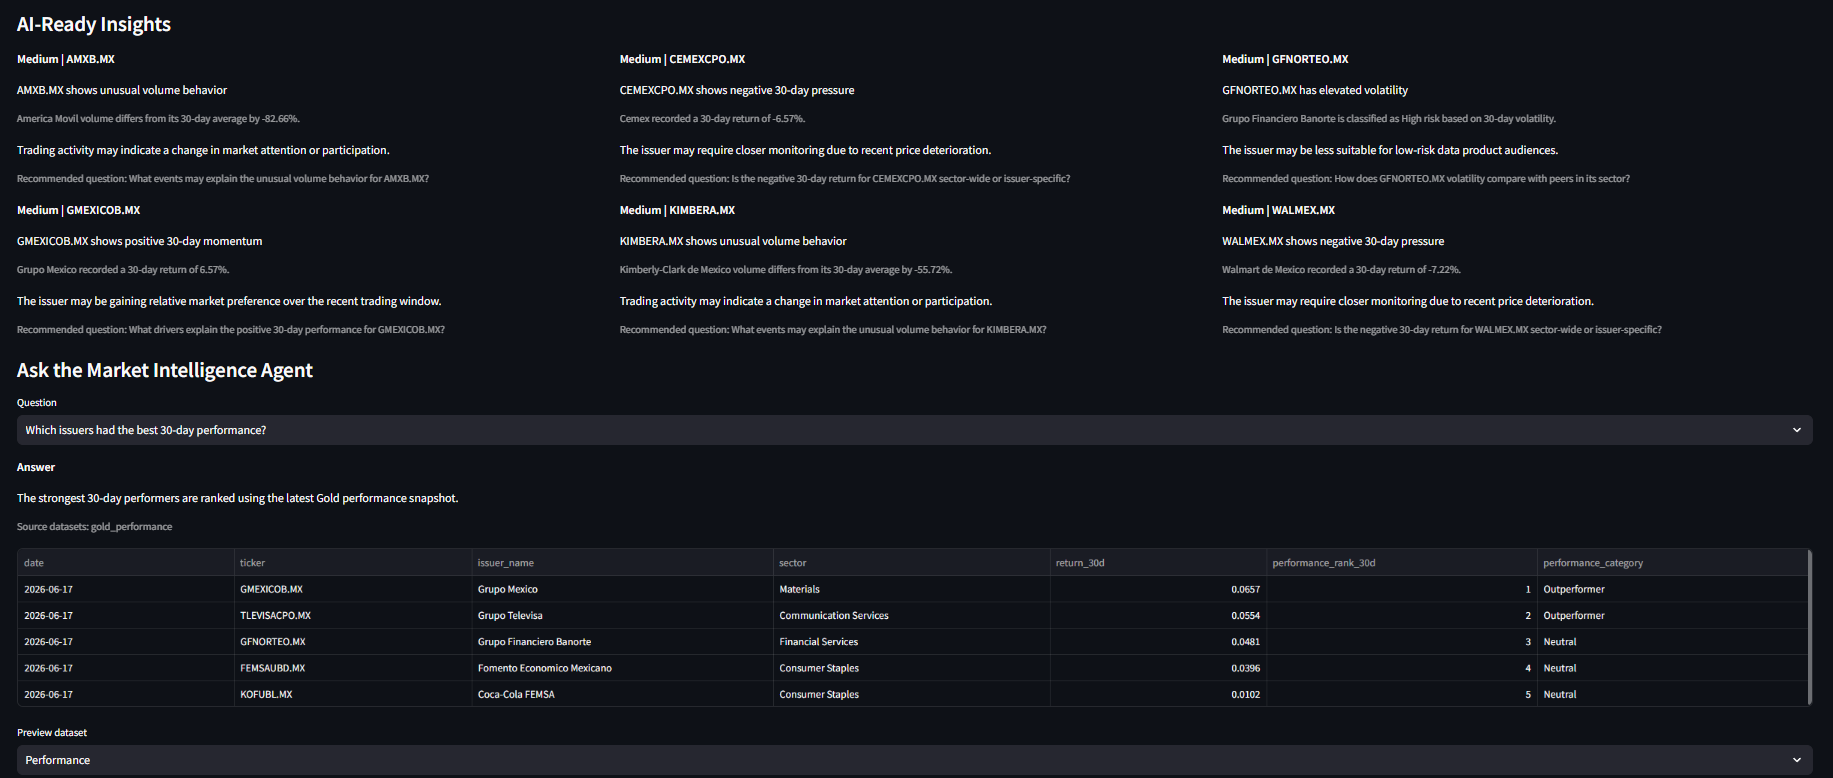
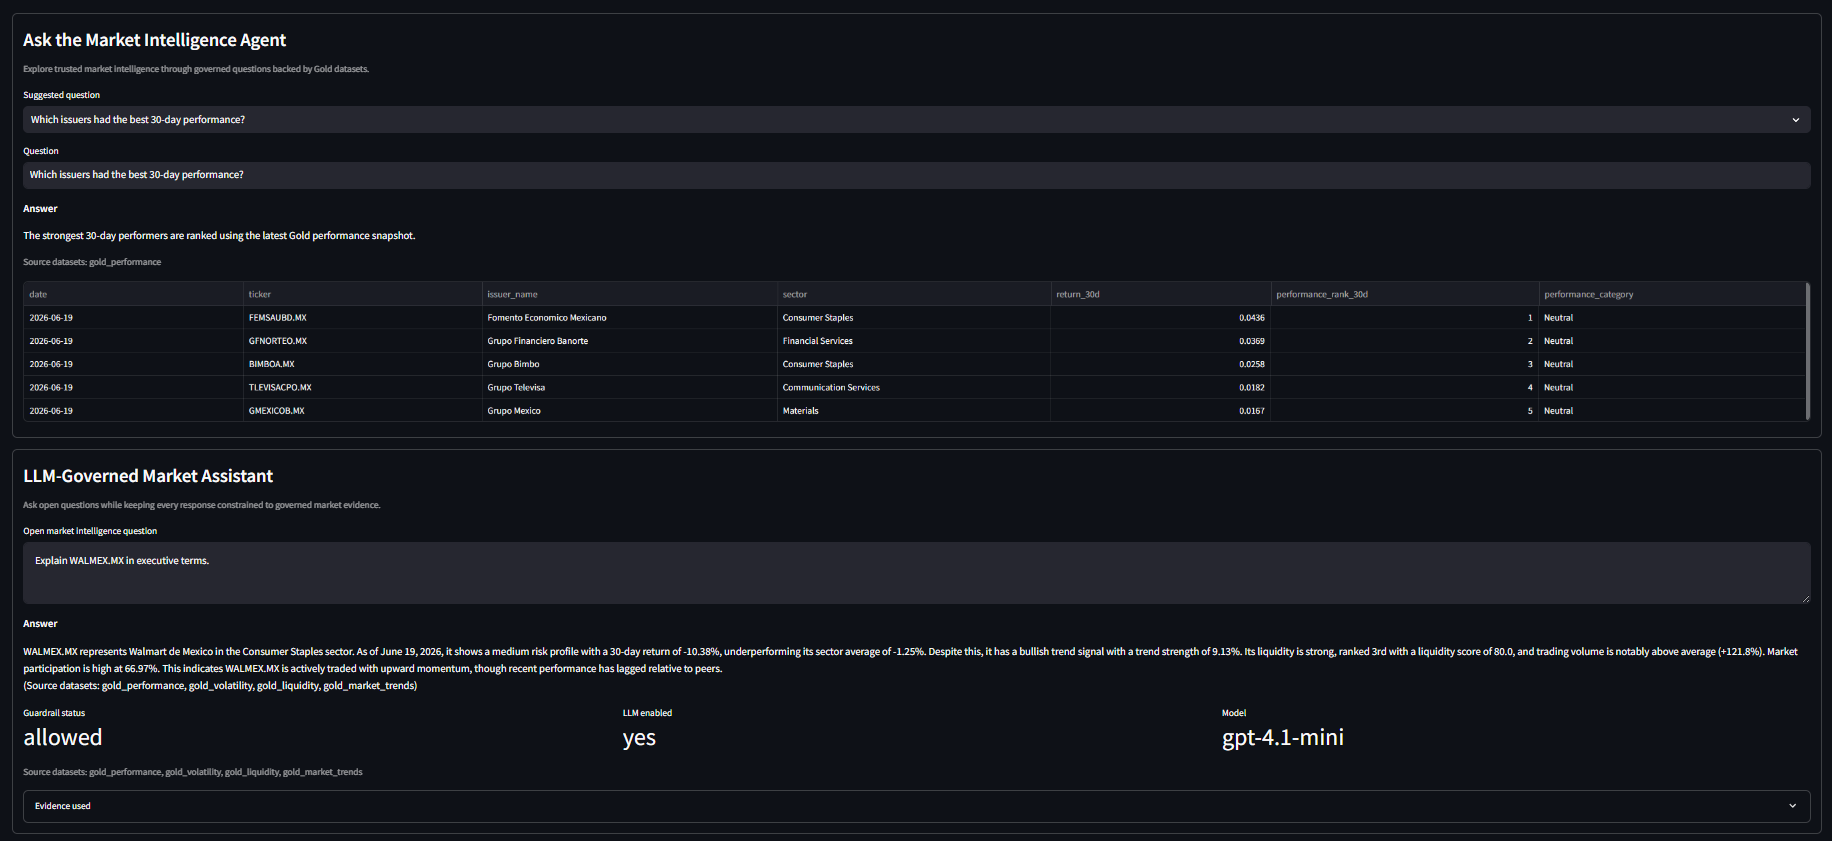
Prepare v1.0-rc3 final release

diff --git a/src/dashboard/app.py b/src/dashboard/app.py
@@ -256,7 +256,7 @@ def render_risk_section(datasets: dict[str, pd.DataFrame]) -> None:
     )
 
     st.subheader("Risk and Volatility")
-    volatility_column, risk_column = st.columns(2)
+    volatility_column, risk_column = st.columns(2, gap="large")
 
     with volatility_column:
         st.altair_chart(build_sector_volatility_chart(sector_volatility), use_container_width=True)
@@ -295,7 +295,7 @@ def render_liquidity_section(datasets: dict[str, pd.DataFrame]) -> None:
     ]
 
     st.subheader("Liquidity and Unusual Volume")
-    volume_column, liquidity_column = st.columns(2)
+    volume_column, liquidity_column = st.columns(2, gap="large")
 
     with volume_column:
         st.altair_chart(build_volume_variation_chart(unusual_volume), use_container_width=True)
@@ -338,57 +338,61 @@ def render_ai_insights_section(datasets: dict[str, pd.DataFrame]) -> None:
 
 
 def render_ai_agent_section() -> None:
-    st.subheader("Ask the Market Intelligence Agent")
+    with st.container(border=True):
+        st.subheader("Ask the Market Intelligence Agent")
+        st.caption("Explore trusted market intelligence through governed questions backed by Gold datasets.")
 
-    selected_question = st.selectbox("Suggested question", SUPPORTED_QUESTIONS)
-    question = st.text_input("Question", value=selected_question)
-    response = answer_question(question)
+        selected_question = st.selectbox("Suggested question", SUPPORTED_QUESTIONS)
+        question = st.text_input("Question", value=selected_question)
+        response = answer_question(question)
 
-    st.markdown("**Answer**")
-    st.write(response["answer"])
+        st.markdown("**Answer**")
+        st.write(response["answer"])
 
-    source_datasets = ", ".join(response["source_datasets"]) if response["source_datasets"] else "n/a"
-    st.caption(f"Source datasets: {source_datasets}")
+        source_datasets = ", ".join(response["source_datasets"]) if response["source_datasets"] else "n/a"
+        st.caption(f"Source datasets: {source_datasets}")
 
-    data_points = pd.DataFrame(response["data_points"])
-    if not data_points.empty:
-        st.dataframe(data_points, use_container_width=True, hide_index=True)
-    else:
-        st.info("No data points returned for this question.")
+        data_points = pd.DataFrame(response["data_points"])
+        if not data_points.empty:
+            st.dataframe(data_points, use_container_width=True, hide_index=True)
+        else:
+            st.info("No data points returned for this question.")
 
 
 def render_llm_agent_section() -> None:
-    st.subheader("LLM-Governed Market Assistant")
+    with st.container(border=True):
+        st.subheader("LLM-Governed Market Assistant")
+        st.caption("Ask open questions while keeping every response constrained to governed market evidence.")
 
-    question = st.text_area(
-        "Open market intelligence question",
-        value="Explain WALMEX.MX in executive terms.",
-        height=90,
-    )
+        question = st.text_area(
+            "Open market intelligence question",
+            value="Explain WALMEX.MX in executive terms.",
+            height=90,
+        )
 
-    if not question.strip():
-        st.info("Enter a market intelligence question grounded in the Gold datasets.")
-        return
+        if not question.strip():
+            st.info("Enter a market intelligence question grounded in the Gold datasets.")
+            return
 
-    response = answer_question_llm(question)
+        response = answer_question_llm(question)
 
-    st.markdown("**Answer**")
-    st.write(response["answer"])
+        st.markdown("**Answer**")
+        st.write(response["answer"])
 
-    status_columns = st.columns(3)
-    status_columns[0].metric("Guardrail status", response["guardrail_status"])
-    status_columns[1].metric("LLM enabled", "yes" if response["llm_enabled"] else "no")
-    status_columns[2].metric("Model", response["model"] or "n/a")
+        status_columns = st.columns(3)
+        status_columns[0].metric("Guardrail status", response["guardrail_status"])
+        status_columns[1].metric("LLM enabled", "yes" if response["llm_enabled"] else "no")
+        status_columns[2].metric("Model", response["model"] or "n/a")
 
-    source_datasets = ", ".join(response["source_datasets"]) if response["source_datasets"] else "n/a"
-    st.caption(f"Source datasets: {source_datasets}")
+        source_datasets = ", ".join(response["source_datasets"]) if response["source_datasets"] else "n/a"
+        st.caption(f"Source datasets: {source_datasets}")
 
-    evidence = response["evidence"]
-    if evidence:
-        with st.expander("Evidence used", expanded=False):
-            st.json(evidence)
-    else:
-        st.info("No evidence was used because the request did not pass guardrails or context was unavailable.")
+        evidence = response["evidence"]
+        if evidence:
+            with st.expander("Evidence used", expanded=False):
+                st.json(evidence)
+        else:
+            st.info("No evidence was used because the request did not pass guardrails or context was unavailable.")
 
 
 def main() -> None:
@@ -421,12 +425,20 @@ def main() -> None:
 
     render_executive_kpis(datasets, status)
     render_performance_rankings(datasets)
+    st.divider()
     render_risk_section(datasets)
+    st.divider()
     render_liquidity_section(datasets)
+    st.divider()
     render_ai_insights_section(datasets)
+
+    st.divider()
+    st.header("Governed Market Intelligence")
+    st.caption("Turn trusted Gold data products into auditable answers and executive explanations.")
     render_ai_agent_section()
     render_llm_agent_section()
 
+    st.divider()
     selected_dataset = st.selectbox("Preview dataset", list(datasets.keys()))
     preview = datasets[selected_dataset].head(20)
 

diff --git a/docs/release_notes_v1_0_rc3.md b/docs/release_notes_v1_0_rc3.md
@@ -1,0 +1,57 @@
+# v1.0-rc3 Release Notes
+
+Final release candidate for the Mexico Equity Intelligence Platform.
+
+> *Transforming market activity into governed, AI-ready data products that power financial intelligence.*
+
+This release packages a reproducible Data Engineering and AI MVP that transforms public Mexican equity market observations into governed data products and controlled information services. It is not a trading system, investment recommender, price prediction platform, or forecasting product.
+
+## Included Capabilities
+
+- Reproducible Docker-based pipeline and runtime.
+- Raw, Silver, Gold, Quality, and Metadata layers.
+- Gold data products for performance, volatility, liquidity, market trends, and AI-ready insights.
+- FastAPI endpoints and a Streamlit executive dashboard.
+- Deterministic governed question answering over Gold datasets.
+- Optional LLM-assisted answers grounded in structured Gold evidence.
+- Guardrails against unsupported topics, forecasts, price targets, and investment recommendations.
+- Architecture, operations, data product, monetization, and reviewer documentation.
+- Executive presentation in PDF format.
+
+## Changes Since v1.0-rc2
+
+- Added the executive project presentation to the repository.
+- Strengthened the README opening with a concise executive value proposition.
+- Refined the Project Vision narrative to reduce repetition and improve business positioning.
+- Improved dashboard hierarchy with thematic dividers and prominent governed-agent panels.
+- Aligned the public review guidance with `v1.0-rc3` as the final release candidate.
+
+## Validation
+
+Final validation completed successfully on June 20, 2026:
+
+```text
+Data quality: 15 checks passed, 0 failed
+Automated tests: 23 passed
+API health: status ok
+Dashboard: loads successfully
+Latest trading date: 2026-06-19
+```
+
+## Review Flow
+
+```bash
+git checkout v1.0-rc3
+docker compose run --rm pipeline
+docker compose run --rm tests
+docker compose up
+```
+
+Open:
+
+```text
+http://localhost:8501
+http://localhost:8000/docs
+```
+
+The platform works without an OpenAI API key. Real API keys must remain private and must not be committed or included in release materials.

diff --git a/docs/project_status_2026_06_20.md b/docs/project_status_2026_06_20.md
@@ -1,0 +1,54 @@
+# Project Status - 2026-06-20
+
+## Release Candidate
+
+- Repository: `https://github.com/Yhodiux/mexico-equity-intelligence-platform`
+- Branch: `main`
+- Target release: `v1.0-rc3`
+- Positioning: final release candidate for external review
+- Previous release candidate: `v1.0-rc2`
+
+This document records the validated content approved for the `v1.0-rc3` release tag.
+
+## Included Scope
+
+- Reproducible Docker-based pipeline and runtime.
+- Raw, Silver, Gold, Quality, and Metadata layers.
+- Five governed Gold data products.
+- FastAPI distribution layer.
+- Streamlit executive dashboard.
+- Deterministic Governed AI Agent.
+- Optional LLM-governed assistant over structured Gold evidence.
+- Guardrails for unsupported, predictive, and investment-advice questions.
+- Business, architecture, monetization, operational, and reviewer documentation.
+- Executive presentation in PDF format.
+
+## Final Validation
+
+Validation completed locally through Docker Compose on June 20, 2026.
+
+```text
+Pipeline: passed
+Raw rows: 12,570
+Silver rows: 12,570
+Gold performance rows: 12,570
+Gold volatility rows: 12,570
+Gold liquidity rows: 12,570
+Gold market trends rows: 12,570
+Gold AI insights rows: 10
+Data quality: 15 passed, 0 failed
+Automated tests: 23 passed
+API health: status ok
+Dashboard HTTP status: 200
+Latest trading date: 2026-06-19
+```
+
+## Final Positioning
+
+The platform demonstrates how public Mexican equity market observations can be transformed into governed, AI-ready data products that power financial intelligence.
+
+It is not a trading system, investment recommender, price prediction platform, or forecasting product. Future cloud, security, metering, and predictive capabilities remain roadmap items outside the local MVP.
+
+## Release Readiness
+
+The implementation, final repository review, and release validation are complete. The annotated `v1.0-rc3` tag identifies the exact release state, and `docs/release_notes_v1_0_rc3.md` provides the corresponding GitHub release notes.

diff --git a/README.md b/README.md
@@ -1,18 +1,16 @@
 # Mexico Equity Intelligence Platform
 
-Transforming public market data into AI-ready data products for Market Intelligence and data monetization.
-
-Local Data Engineering and AI MVP for Mexican Market Intelligence data products.
+> *Transforming market activity into governed, AI-ready data products that power financial intelligence.*
 
 ---
 
 ## Project Vision
 
-This platform demonstrates how public market data can be transformed into AI-ready data products through Data Engineering, Market Intelligence and Artificial Intelligence.
+This platform applies Data Engineering, Market Intelligence and Artificial Intelligence to turn public Mexican equity observations into trusted information assets.
 
-The focus is on converting market observations into governed information products that can be delivered through APIs, dashboards, reports and controlled AI services.
+Those assets are governed, reusable and designed for delivery through APIs, dashboards, reports and controlled AI services.
 
-The goal is to enable Market Intelligence and data monetization through reusable and AI-ready data products.
+The result is a practical foundation for financial intelligence and data monetization, built as a reproducible local MVP.
 
 ---
 
@@ -153,10 +151,10 @@ Create the API key from the OpenAI platform dashboard and make sure billing/cred
 
 ## Quick Product Tour
 
-Use the current release candidate:
+Use the final release candidate:
 
 ```bash
-git checkout v1.0-rc2
+git checkout v1.0-rc3
 ```
 
 Then explore the platform in this order:
@@ -190,8 +188,8 @@ It is intended for business leaders, data leaders, technology stakeholders, and 
 - [Future AWS Architecture](docs/future_aws_architecture.md)
 - [Demo Guide](docs/demo_guide.md)
 - [Reviewer Guide](docs/reviewer_guide.md)
-- [Release Notes v1.0-rc2](docs/release_notes_v1_0_rc2.md)
-- [Project Status - 2026-06-18](docs/project_status_2026_06_18.md)
+- [Release Notes v1.0-rc3](docs/release_notes_v1_0_rc3.md)
+- [Project Status - 2026-06-20](docs/project_status_2026_06_20.md)
 - [Data Flow Architecture](docs/architecture/data_flow.md) including transformation highlights
 - [Cloud Roadmap](docs/architecture/cloud_roadmap.md)
 - [Data Contracts](docs/architecture/data_contracts.md)

diff --git a/docs/internal/CODEX_SESSION_STATE.md b/docs/internal/CODEX_SESSION_STATE.md
@@ -7,13 +7,13 @@ The project currently implements the local Raw, Silver, Gold, Metadata, Data Qua
 Current saved status date:
 
 ```text
-2026-06-18 America/Mexico_City
[phone redacted] America/Mexico_City
 ```
 
-Published release candidate:
+Final release candidate:
 
 ```text
-v1.0-rc2 at f458981c15a6e1b29cfc2484f91b50920570f916
+v1.0-rc3 (validated and approved for publication)
 ```
 
 Expected Git status after saving and pushing this snapshot:
@@ -237,12 +237,12 @@ docker compose run --rm tests
 
 ## Final Delivery Status
 
-The project is published as `v1.0-rc2`, ready to be sent by repository or release link, and ready for external tester validation.
+The `v1.0-rc3` candidate has passed the full pipeline, automated tests, API health check, and dashboard availability check and is approved as the final external review release candidate.
 
 Release:
 
 ```text
-https://github.com/Yhodiux/mexico-equity-intelligence-platform/releases/tag/v1.0-rc2
+https://github.com/Yhodiux/mexico-equity-intelligence-platform/releases/tag/v1.0-rc3
 ```
 
 Recommended tester validation:
@@ -282,8 +282,8 @@ La suite de pruebas queda validada con 23 tests passing.
 
 ## Current Release Notes
 
-- Recommended review tag: `v1.0-rc2`
-- Previous stable demo tag: `v1.0-demo`
+- Target review tag: `v1.0-rc3`
+- Previous release candidate: `v1.0-rc2`
 - Current public branch: `main`
-- Release commit: `f458981c15a6e1b29cfc2484f91b50920570f916`
-- Current state: `v1.0-rc2` validated and published as a GitHub prerelease; Future AI Enhancements remain documentation-only roadmap items.
+- Release state: identified by the annotated `v1.0-rc3` tag
+- Current state: `v1.0-rc3` validated and approved as the final external review release candidate.

diff --git a/docs/demo_guide.md b/docs/demo_guide.md
@@ -28,10 +28,10 @@ The recommended review path is:
 6. Test the LLM-governed assistant.
 7. Validate out-of-domain, forecasting, and investment-advice guardrails.
 
-Stable review version:
+Final release candidate:
 
 ```text
-v1.0-demo
+v1.0-rc3
 ```
 
 ## Prerequisites